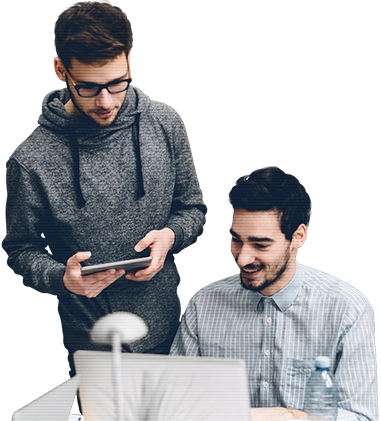
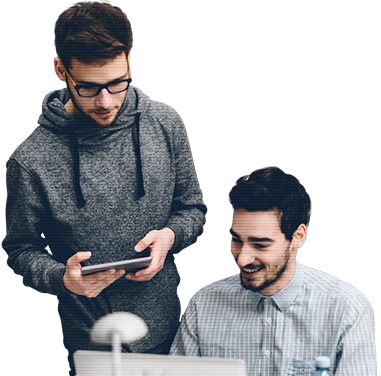
Kolya.all blocks @2x images add

diff --git a/src/html/block07.html b/src/html/block07.html
@@ -12,19 +12,25 @@
         </p>
       </div>
       <picture class="block07__titleimage">
-        <source media="(min-width: 1200px)" srcset="./images/block07/block07_img1_1200.jpg">
-        <source media="(min-width: 768px)" srcset="./images/block07/block07_img1_768.jpg">
-        <source media="(min-width: 320px)" srcset="./images/block07/block07_img1.jpg">
-        <img src="./images/block07/block07_img1_768.jpg" alt="">
+        <source media="(min-width: 1200px)" sizes="306px"
+          srcset="./images/block07/block07_img1_1200.jpg 306w, ./images/block07/block07_img1_1200@2x.jpg 612w">
+        <source media="(min-width: 768px)" sizes="274px"
+          srcset="./images/block07/block07_img1_768.jpg 274w, ./images/block07/block07_img1_768@2x.jpg 548w">
+        <source media="(min-width: 320px)" sizes="446px"
+          srcset="./images/block07/block07_img1.jpg 446w, ./images/block07/block07_img1@2x.jpg 892w">
+        <img src="./images/block07/block07_img1_768.jpg" alt="thinking man">
       </picture>
     </div>
 
     <div class="block07__wrapper-descr">
       <picture class="block07__descrimage">
-        <source media="(min-width: 1200px)" srcset="./images/block07/block07_img2_1200.jpg">
-        <source media="(min-width: 768px)" srcset="./images/block07/block07_img2_768.jpg">
-        <source media="(min-width: 320px)" srcset="./images/block07/block07_img2.jpg">
-        <img src="./images/block07/block07_img2_768.jpg" alt="">
+        <source media="(min-width: 1200px)" sizes="306px"
+          srcset="./images/block07/block07_img2_1200.jpg 306w, ./images/block07/block07_img2_1200@2x.jpg 612w">
+        <source media="(min-width: 768px)" sizes="274px"
+          srcset="./images/block07/block07_img2_768.jpg 274w, ./images/block07/block07_img2_768@2x.jpg 548w">
+        <source media="(min-width: 320px)" sizes="446px"
+          srcset="./images/block07/block07_img2.jpg 446w, ./images/block07/block07_img2@2x.jpg 892w">
+        <img src="./images/block07/block07_img2_768.jpg" alt="smiling Vasserman">
       </picture>
       <article class="block07__article block07__article--sdfirst">
         <div class="block07__wrapper-articletitle">

diff --git a/src/html/header.html b/src/html/header.html
@@ -4,8 +4,12 @@
   <nav class="menu">
     <a href="" class="menu__logo">
       <picture>
-        <source media="(min-width: 768px)" srcset="./images/header/logo_768.png">
-        <source media="(min-width: 320px)" srcset="./images/header/logo.png">
+        <source media="(min-width: 1200px)" sizes="63px"
+          srcset="./images/header/logo_1200.png 63w, ./images/header/logo_1200@2x.png 126w">
+        <source media="(min-width: 768px)" sizes="57px"
+          srcset="./images/header/logo_768.png 57w, ./images/header/logo_768@2x.png 114w">
+        <source media="(min-width: 320px)" sizes="66px"
+          srcset="./images/header/logo.png 66w, ./images/header/logo@2x.png 132w">
         <img src="./images/header/logo.png" alt="go it logo">
       </picture>
     </a>
@@ -21,8 +25,10 @@
 
   <div class="block__inner">
     <picture>
+      <source media="(min-width: 768px)" sizes="381px"
+        srcset="./images/header/bg_2guys_cutted.png 381w, ./images/header/bg_2guys_cutted@2x.png 762w">
       <source media="(min-width: 320px)" srcset="">
-      <img src="./images/header/bg_2guys_cutted.png" alt="notebook 2guys" class="header__bgimage">
+      <img src="" alt="" class="header__bgimage">
     </picture>
 
     <div class="header__wrapper-content">

diff --git a/src/html/block08.html b/src/html/block08.html
@@ -17,9 +17,12 @@
 
     <article class="block08__wrapperarticle">
       <picture>
-        <source media="(min-width: 1200px)" srcset="./images/block08/block08-notebook-guy_1200.jpg">
-        <source media="(min-width: 768px)" srcset="./images/block08/block08-notebook-guy_768.jpg">
-        <source media="(min-width: 320px)" srcset="./images/block08/block08-notebook-guy.jpg">
+        <source media="(min-width: 1200px)" sizes="348px"
+          srcset="./images/block08/block08-notebook-guy_1200.jpg 348w, ./images/block08/block08-notebook-guy_1200@2x.jpg 696w">
+        <source media="(min-width: 768px)" sizes="313px"
+          srcset="./images/block08/block08-notebook-guy_768.jpg 313w, ./images/block08/block08-notebook-guy_768@2x.jpg 626w">
+        <source media="(min-width: 320px)" sizes="446px"
+          srcset="./images/block08/block08-notebook-guy.jpg 446w, ./images/block08/block08-notebook-guy@2x.jpg 892w">
         <img src="./images/block08/block08-notebook-guy.jpg" alt="notebook-guy" class="block08__descr-image">
       </picture>
       <div class="block08__wrapperdescr">

diff --git a/src/sass/blocks/block08/320.scss b/src/sass/blocks/block08/320.scss
@@ -21,8 +21,13 @@
 
       background-image: url(../images/block08/block08-bg.png);
       background-position: center;
-      background-repeat: no-repeat;
+      background-repeat: no-repeat; 
+      background-size: contain;
       z-index: -1;
+
+      @media (min-resolution: 192dpi), (min-resolution: 2dppx) {
+        background-image: url(../images/block08/block08-bg@2x.png);
+      }
     } 
   }
 

diff --git a/src/sass/blocks/block08/768.scss b/src/sass/blocks/block08/768.scss
@@ -12,6 +12,10 @@
       &::before {
         background-image: url(../images/block08/block08-bg_768.png);
         background-position: left; 
+
+        @media (min-resolution: 192dpi), (min-resolution: 2dppx) {
+          background-image: url(../images/block08/block08-bg_768@2x.png);
+        }
       }
     }
 

diff --git a/src/sass/blocks/block08/1200.scss b/src/sass/blocks/block08/1200.scss
@@ -5,6 +5,10 @@
     &__wrappertitle { 
       &::before { 
         background-image: url(../images/block08/block08-bg_1200.png);
+        
+        @media (min-resolution: 192dpi), (min-resolution: 2dppx) {
+          background-image: url(../images/block08/block08-bg_1200@2x.png);
+        }
       }
     }
 
